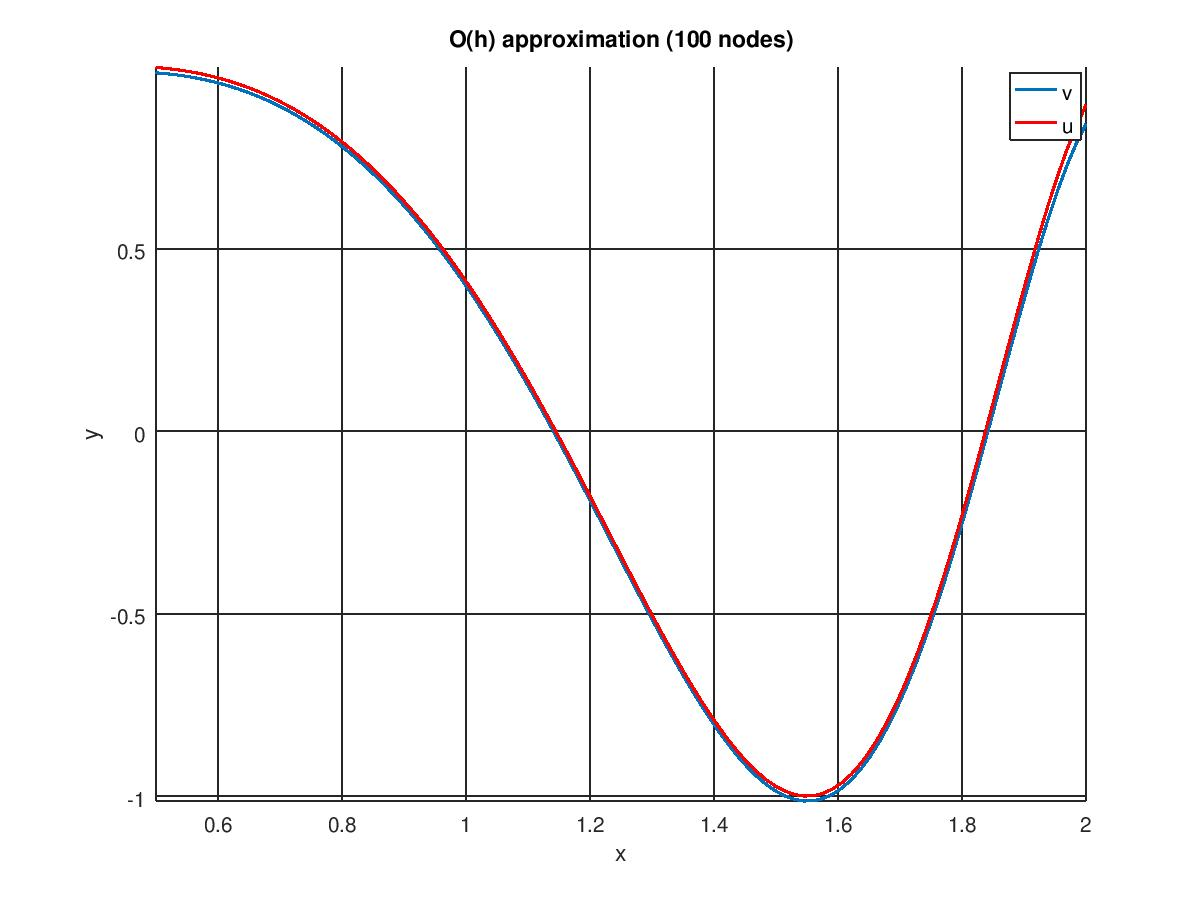
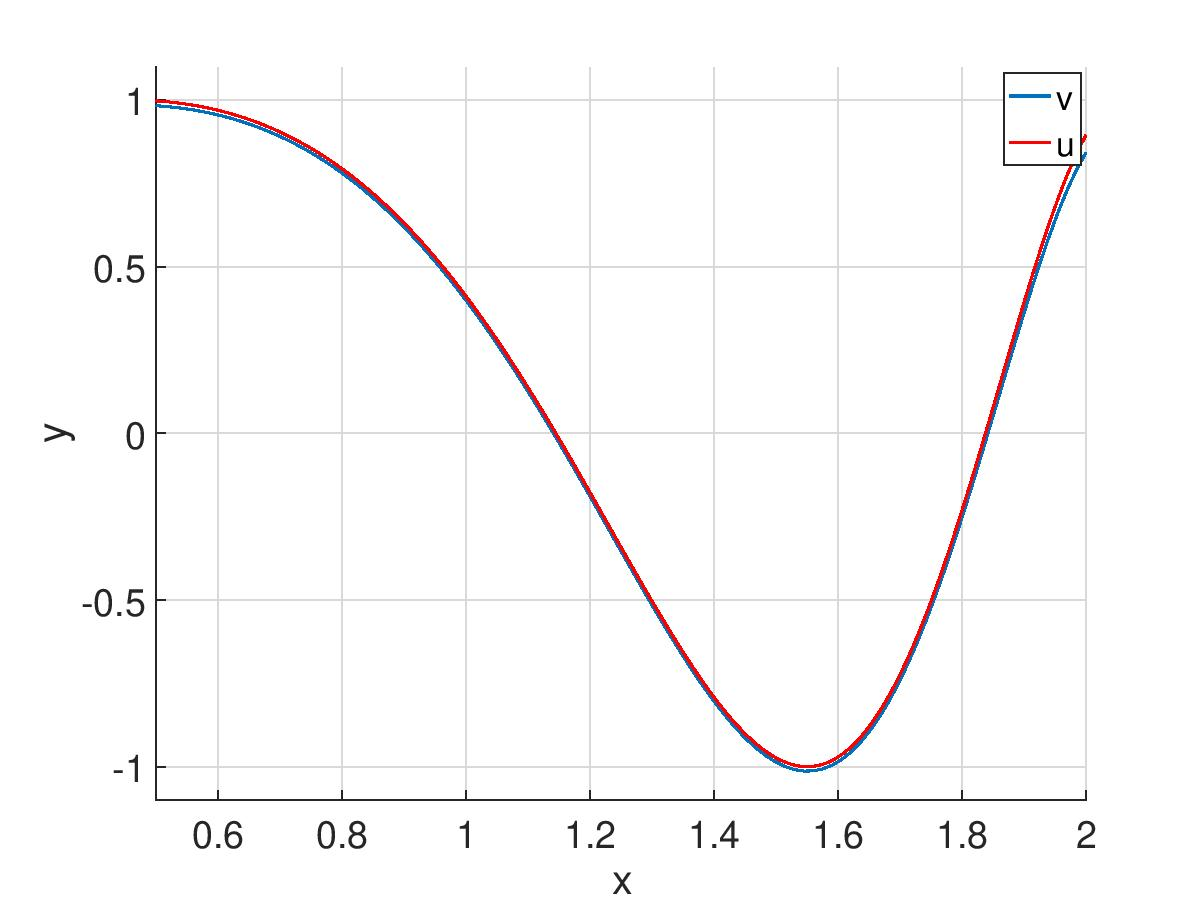
fixed graphics and report

diff --git a/Сеточные методы/lab_1/Отчёт.tex b/Сеточные методы/lab_1/Отчёт.tex
@@ -145,7 +145,7 @@ $$
 
 Стоит обратить внимание на аппроксимацию на краях отрезка, для них используется другие шаблоны аппроксимации:
 $$
-\omega_h(x_0) = \{ x_{0}; x_{0 + 1}; x_{0 + 2}\}
+\omega_h(x_0) = \{ x_{0}; x_{1}; x_{2}\}
 $$
 
 $$
@@ -220,7 +220,7 @@ $$
 $$
 Тогда :
 $$
-u_x = \dfrac{u_{i + 1} + u_{i}}{h^2}
+u_x = \dfrac{u_{i + 1} - u_{i}}{h}
 $$
 
 Проводя аналогичные предыдущему пункту рассуждения, перейдем от исходной задачи к разностной схеме. В этом случае, так как нам требуется точность всего лишь O(h), то условия на границах можно аппроксимировать чуть более простой разностной схемой с тем же шаблоном, что используется для аппроксимации первой производной.
@@ -319,14 +319,14 @@ $$
 
 \begin{figure}
 \begin{center}
-\includegraphics[scale = 0.65]{h2_20.jpg} 
+\includegraphics[scale = 0.6]{h2_20.jpg} 
 \end{center}
 \caption{Разностная схема $O(h^2), n = 20$ }
 \end{figure}
 
 \begin{figure}
 \begin{center}
-\includegraphics[scale = 0.65]{h2_100.jpg} 
+\includegraphics[scale = 0.6]{h2_100.jpg} 
 \end{center}
 \caption{Разностная схема $O(h^2), n = 100$ }
 \end{figure}
@@ -386,14 +386,14 @@ $$
 
 \begin{figure}
 \begin{center}
-\includegraphics[scale = 0.65]{h1_20.jpg} 
+\includegraphics[scale = 0.6]{h1_20.jpg} 
 \end{center}
 \caption{Разностная схема $O(h), n = 20$ }
 \end{figure}
 
 \begin{figure}
 \begin{center}
-\includegraphics[scale = 0.65]{h1_100.jpg} 
+\includegraphics[scale = 0.6]{h1_100.jpg} 
 \end{center}
 \caption{Разностная схема $O(h), n = 100$}
 \end{figure}
@@ -437,9 +437,9 @@ $$
 
 \begin{figure}[ht]
 \begin{center}
-\includegraphics[width=\linewidth]{loglog2.jpg} 
+\includegraphics[width=\linewidth]{loglog.jpg} 
 \end{center}
-\caption{$O(h^2)$}
+\caption{Графики зависимости логарифма погрешности от логарифма шага для двух разностных схем}
 \end{figure}
 
 \pagebreak

diff --git a/Сеточные методы/lab_1/graphics.m b/Сеточные методы/lab_1/graphics.m
@@ -1,16 +1,67 @@
-
-gf = figure(1);
+gf_loglog = figure(5);
 hold on;
 grid on;
-axis([min(x), max(x), min(v), max(u(x))]);
-plot(x, v, 'linewidth', 1)
-plot(x, u(x), 'r', 'linewidth', 1);
-%x1 = [1e-5, 1e-3];
-%y1 = [10e-8, 2e-3 + 1e-8 - 2e-5];
-%loglog(hi, delta, 'linewidth', 2);
-%plot(x1, y1, 'k', 'linewidth', 2);
+axis([-12, -6, -25, 2]);
+set(gca, 'FontSize', 14);
+plot(log(hi_1), log(delta_1), '-sb', 'linewidth', 1);
+plot(log(hi_2), log(delta_2), '-sr', 'linewidth', 1);
+plot([-12, -6], [-14, -8], 'b');
+plot([-12, -6], [-25, -13], 'r');
+legend('log(||zh||)=k1*log(h)+b1, O(h)', 
+       'log(||zh||)=k2*log(h)+b2, O(h^2)',
+       'y = x - 2',
+       'y = 2x -1');
+xlabel('log(h)');
+ylabel('log(||zh||)');
+
+gf_1_20 = figure(1);
+hold on;
+grid on;
+axis([a, b, min(y) - 0.1, max(y) + 0.1]);
+plot(x_1_20, v_1_20, 'linewidth', 1);
+plot(x, y, 'r', 'linewidth', 1);
+set(gca,'FontSize',18);
 legend('v', 'u');
 xlabel('x');
 ylabel('y');
-title('O(h^2) approximation (100 nodes)');
-print(gf, "pic/h2_100",'-djpg');
+
+gf_1_100 = figure(2);
+hold on;
+grid on;
+axis([a, b, min(y) - 0.1, max(y) + 0.1]);
+plot(x_1_100, v_1_100, 'linewidth', 1);
+plot(x, y, 'r', 'linewidth', 1);
+set(gca,'FontSize',18);
+legend('v', 'u');
+xlabel('x');
+ylabel('y');
+
+gf_2_20 = figure(3);
+hold on;
+grid on;
+axis([a, b, min(y) - 0.1, max(y) + 0.1]);
+plot(x_2_20, v_2_20, 'linewidth', 1);
+plot(x, y, 'r', 'linewidth', 1);
+set(gca,'FontSize',18);
+legend('v', 'u');
+xlabel('x');
+ylabel('y');
+
+gf_2_100 = figure(4);
+hold on;
+grid on;
+axis([a, b, min(y) - 0.1, max(y) + 0.1]);
+plot(x_2_100, v_2_100, 'linewidth', 1);
+plot(x, y, 'r', 'linewidth', 1);
+set(gca,'FontSize',18);
+legend('v', 'u');
+xlabel('x');
+ylabel('y');
+
+% saving plots
+print(gf_1_20, "pic/h1_20",'-djpg');
+print(gf_1_100, "pic/h1_100",'-djpg');
+print(gf_2_20, "pic/h2_20",'-djpg');
+print(gf_2_100, "pic/h2_100",'-djpg');
+print(gf_loglog, "pic/loglog",'-djpg');
+

diff --git a/Сеточные методы/lab_1/main.m b/Сеточные методы/lab_1/main.m
@@ -1,21 +1,49 @@
-problem;
 n = 1280;
 dim = 1;
-errCur = 10;
+errCur_1 = 10;
+errPrew_1 = 100;
+errCur_2 = 10;
 i = 1;
 
+% for original func graph
+x = linspace(a, b, 1000);
+y = u(x);
+
+% O(h), 20
+[v_1_20, x_1_20, h] = FiniteDiffMethod(20, a, b, 1, alpha, beta, gamma, p, q, f);
+% O(h), 100
+[v_1_100, x_1_100, h] = FiniteDiffMethod(100, a, b, 1, alpha, beta, gamma, p, q, f);
+% O(h^2), 20
+[v_2_20, x_2_20, h] = FiniteDiffMethod(20, a, b, 2, alpha, beta, gamma, p, q, f);
+% O(h^2), 100
+[v_2_100, x_2_100, h] = FiniteDiffMethod(100, a, b, 2, alpha, beta, gamma, p, q, f);
+
+hi_1 = [];
+hi_2 = [];
+delta_1 = [];
+delta_1 = [];
 while true  
-  [v, x, h] = ... 
-  FiniteDiffMethod(n, a, b, dim, alpha, beta, gamma, p, q, f);
-  
-  errPrew = errCur;
-  errCur = norm(abs(v - u(x)), h, n);
-  delta(i) = errCur;
-  hi(i) = h;
+  % for loglog graph O(h)
+  if (errCur_1 < errPrew_1)
+    [v_log_1, x_log_1, h_1] = ... 
+    FiniteDiffMethod(n, a, b, 1, alpha, beta, gamma, p, q, f);
+    errPrew_1 = errCur_1;
+    errCur_1 = norm(abs(v_log_1 - u(x_log_1)), h_1, n);
+    delta_1(i) = errCur_1;
+    hi_1(i) = h_1;
+  endif
+
+  % for loglog graph O(h^2)
+  [v_log_2, x_log_2, h_2] = ... 
+  FiniteDiffMethod(n, a, b, 2, alpha, beta, gamma, p, q, f);
+  errPrew_2 = errCur_2;
+  errCur_2 = norm(abs(v_log_2 - u(x_log_2)), h_2, n);
+  delta_2(i) = errCur_2;
+  hi_2(i) = h_2;
   
   i = i + 1;
   n = n * 2;
-  if (errCur >= errPrew)
+  if (errCur_2 >= errPrew_2)
     break;
   end
 end
